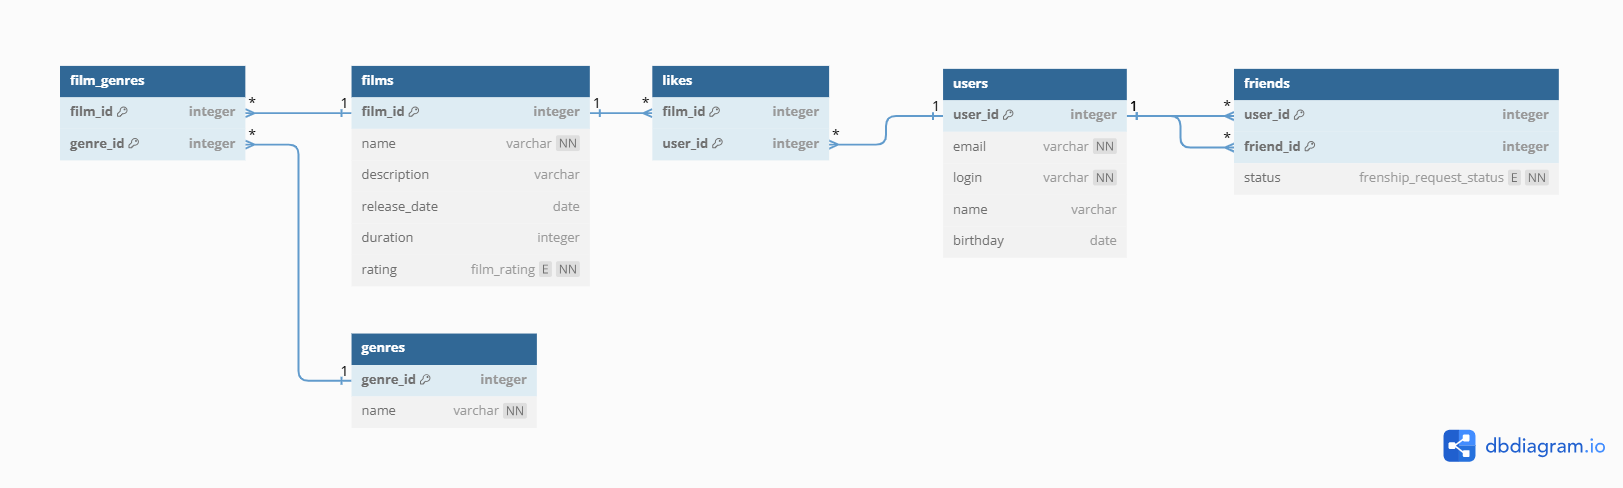
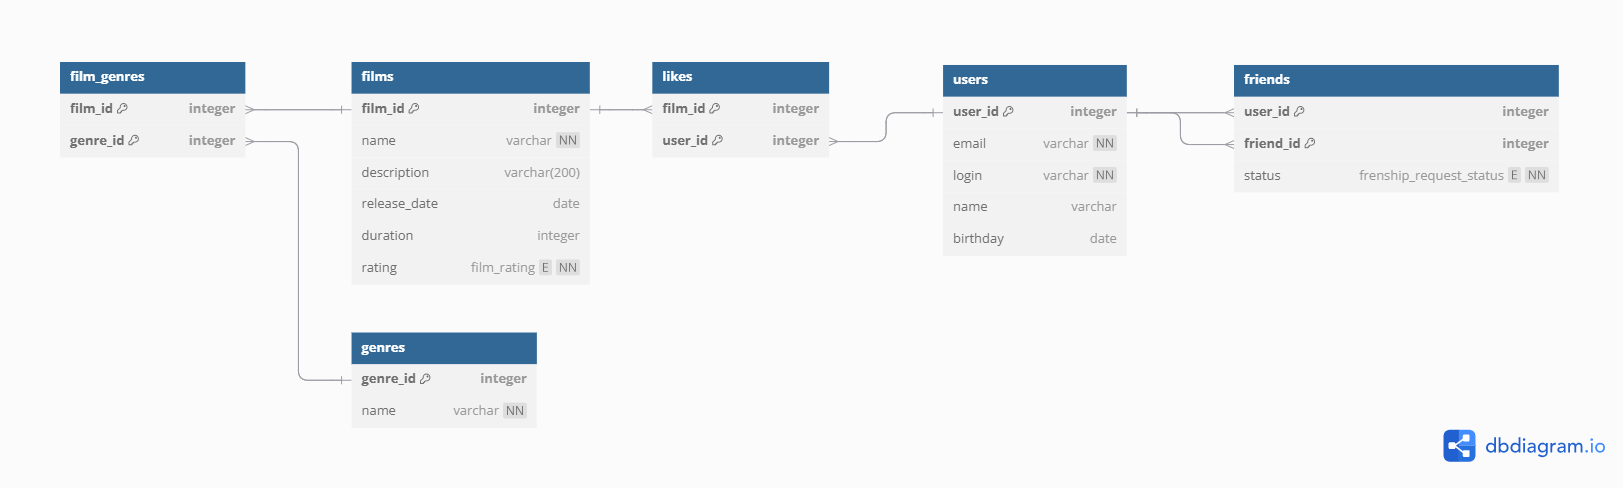
Sprint 12(промежуточное задание): Изменить тип поля description (таблица films) на varchar(200), изменить оформление запросов в README.md (Каждый запрос выделен отдельно)

diff --git a/README.md b/README.md
@@ -1,22 +1,27 @@
 # java-filmorate
+
 ### ER-Диаграмма
+
 ![Filmorate.png](Filmorate.png)
 SQL-схема: [Filmorate(PsgSQL).sql](src%2Fmain%2Fresources%2FFilmorate%28PsgSQL%29.sql)
 
 ### Описание таблиц:
+
 #### Таблица films:
+
 | Поле         | Тип                                                  | Описание                                                      |
-| ------------ | ---------------------------------------------------- |---------------------------------------------------------------|
+|--------------|------------------------------------------------------|---------------------------------------------------------------|
 | film_id      | INTEGER GENERATED BY DEFAULT AS IDENTITY PRIMARY KEY | Автоматически генерируемый ID                                 |
 | name         | varchar NOT NULL                                     | Название фильма не может быть пустым                          |
-| description  | varchar                                              | Описание длиной до 200 символов                               |
+| description  | varchar(200)                                         | Описание длиной до 200 символов                               |
 | release_date | date                                                 | Дата выхода должна быть не раньше 28.12.1895                  |
 | duration     | integer                                              | Продолжительность должна быть положительным числом            |
 | rating       | enum film_rating NOT NULL                            | Enum с возрастными рейтингами фильмов, должен быть проставлен |
 
 #### Таблица users:
+
 | Поле     | Тип                                                  | Описание                                           |
-| -------- | ---------------------------------------------------- |----------------------------------------------------|
+|----------|------------------------------------------------------|----------------------------------------------------|
 | user_id  | INTEGER GENERATED BY DEFAULT AS IDENTITY PRIMARY KEY | Автоматически генерируемый ID                      |
 | email    | varchar UNIQUE NOT NULL                              | Email Не может быть пустым, должен быть уникальным |
 | login    | varchar UNIQUE NOT NULL                              | Логин Не может быть пустым, должен быть уникальным |
@@ -24,51 +29,64 @@ SQL-схема: [Filmorate(PsgSQL).sql](src%2Fmain%2Fresources%2FFilmorate%28Psg
 | birthday | date                                                 | Дата рождения не может быть в будущем              |
 
 #### Таблица genres:
+
 | Поле     | Тип                                                  | Описание                                 |
-| -------- | ---------------------------------------------------- | ---------------------------------------- |
+|----------|------------------------------------------------------|------------------------------------------|
 | genre_id | INTEGER GENERATED BY DEFAULT AS IDENTITY PRIMARY KEY | Автоматически генерируемый ID            |
 | name     | varchar UNIQUE NOT NULL                              | Наименование жанра, не может быть пустым |
 
 #### Таблица friends:
+
 | Поле      | Тип                                   | Описание                                |
-| --------- | ------------------------------------- | --------------------------------------- |
+|-----------|---------------------------------------|-----------------------------------------|
 | user_id   | INTEGER PRIMARY KEY (FOREIGN KEY)     | Ссылка на таблицу users                 |
 | friend_id | INTEGER PRIMARY KEY (FOREIGN KEY)     | Ссылка на таблицу users                 |
 | status    | enum frenship_request_status NOT NULL | Enum со статусами, не может быть пустым |
 
 #### Таблица likes:
+
 | Поле    | Тип                               | Описание                |
-| ------- | --------------------------------- | ----------------------- |
+|---------|-----------------------------------|-------------------------|
 | film_id | INTEGER PRIMARY KEY (FOREIGN KEY) | Ссылка на таблицу films |
 | user_id | INTEGER PRIMARY KEY (FOREIGN KEY) | Ссылка на таблицу users |
 
 #### Таблица film_genres:
+
 | Поле     | Тип                               | Описание                 |
-| -------- | --------------------------------- | ------------------------ |
+|----------|-----------------------------------|--------------------------|
 | film_id  | INTEGER PRIMARY KEY (FOREIGN KEY) | Ссылка на таблицу films  |
 | genre_id | INTEGER PRIMARY KEY (FOREIGN KEY) | Ссылка на таблицу genres |
 
 ### Примеры основных запросов:
+
+- выборка всех пользователей
 ```sql
---выборка всех пользователей
 SELECT *
 FROM users;
+```
 
---выборка всех фильмов
+- выборка всех фильмов
+```sql
 SELECT *
 FROM films;
+```
 
---выборка пользователя по id
+- выборка пользователя по id
+```sql
 SELECT *
 FROM users
 WHERE user_id = 7;
+```
 
---выборка фильма по id
+- выборка фильма по id
+```sql
 SELECT *
 FROM films
 WHERE film_id = 7;
+```
 
---выборка друзей пользователя
+- выборка друзей пользователя
+```sql
 SELECT u.name as user_name,
        f.name as friend_name,
        fs.status
@@ -77,8 +95,10 @@ FROM friends fs
          JOIN users f ON fs.friend_id = f.user_id
 WHERE u.user_id = 7
 ORDER BY friend_name;
+```
 
---выборка 10 самых популярных фильмов
+- выборка 10 самых популярных фильмов
+```sql
 SELECT ROW_NUMBER() OVER (ORDER BY likes DESC NULLS LAST) AS Row,
        f.name,
        l.likes
@@ -88,53 +108,54 @@ FROM films AS f
                FROM likes
                GROUP BY film_id) AS l USING (film_id)
 LIMIT 10;
-
 ```
 
 ### Примеры дополнительных запросов для проверки работоспособности БД:
+
+- количество фильмов, среднее количество лайков по жанрам и по рейтингу
 ```sql
---колличество фильмов, среднее количество лайков по жанрам и по рейтингу 
 SELECT g.name,
        f.rating,
-       COUNT(fg.film_id) AS film_count,
-       ROUND(AVG(l.likes),2) as avg_likes
+       COUNT(fg.film_id)      AS film_count,
+       ROUND(AVG(l.likes), 2) as avg_likes
 FROM film_genres AS fg
-LEFT JOIN (
-      SELECT film_id, 
-            COUNT(*) as likes
-      FROM likes
-      GROUP BY film_id
-      ) AS l USING (film_id)
-LEFT JOIN films AS f USING(film_id)
-LEFT JOIN genres AS g USING(genre_id)
+         LEFT JOIN (SELECT film_id,
+                           COUNT(*) as likes
+                    FROM likes
+                    GROUP BY film_id) AS l USING (film_id)
+         LEFT JOIN films AS f USING (film_id)
+         LEFT JOIN genres AS g USING (genre_id)
 GROUP BY g.genre_id, f.rating;
+```
 
---название фильма и количество лайков
+- название фильма и количество лайков
+```sql
 SELECT f.name,
        l.likes
 FROM films AS f
-LEFT JOIN(
-      SELECT film_id, 
-            COUNT(*) AS likes
-      FROM likes
-      GROUP BY film_id
-      ) AS l USING(film_id)
+         LEFT JOIN(SELECT film_id,
+                          COUNT(*) AS likes
+                   FROM likes
+                   GROUP BY film_id) AS l USING (film_id)
 ORDER BY 2 DESC NULLS LAST;
+```
 
---Количество фильмов по жанрам
+- Количество фильмов по жанрам
+```sql
 SELECT g.name,
        COUNT(film_id) AS films_count
 FROM genres AS g
-LEFT JOIN film_genres AS fg USING(genre_id)
+         LEFT JOIN film_genres AS fg USING (genre_id)
 GROUP BY genre_id
 ORDER BY films_count DESC NULLS LAST;
+```
 
---Фильмы и пользователи которые поставили лайки
+- Фильмы и пользователи которые поставили лайки
+```sql
 SELECT f.name AS film_name,
        u.name AS user_name
 FROM likes AS l
-JOIN users AS u USING(user_id)
-JOIN films AS f USING(film_id)
+         JOIN users AS u USING (user_id)
+         JOIN films AS f USING (film_id)
 ORDER BY 1, 2;
-
 ```
